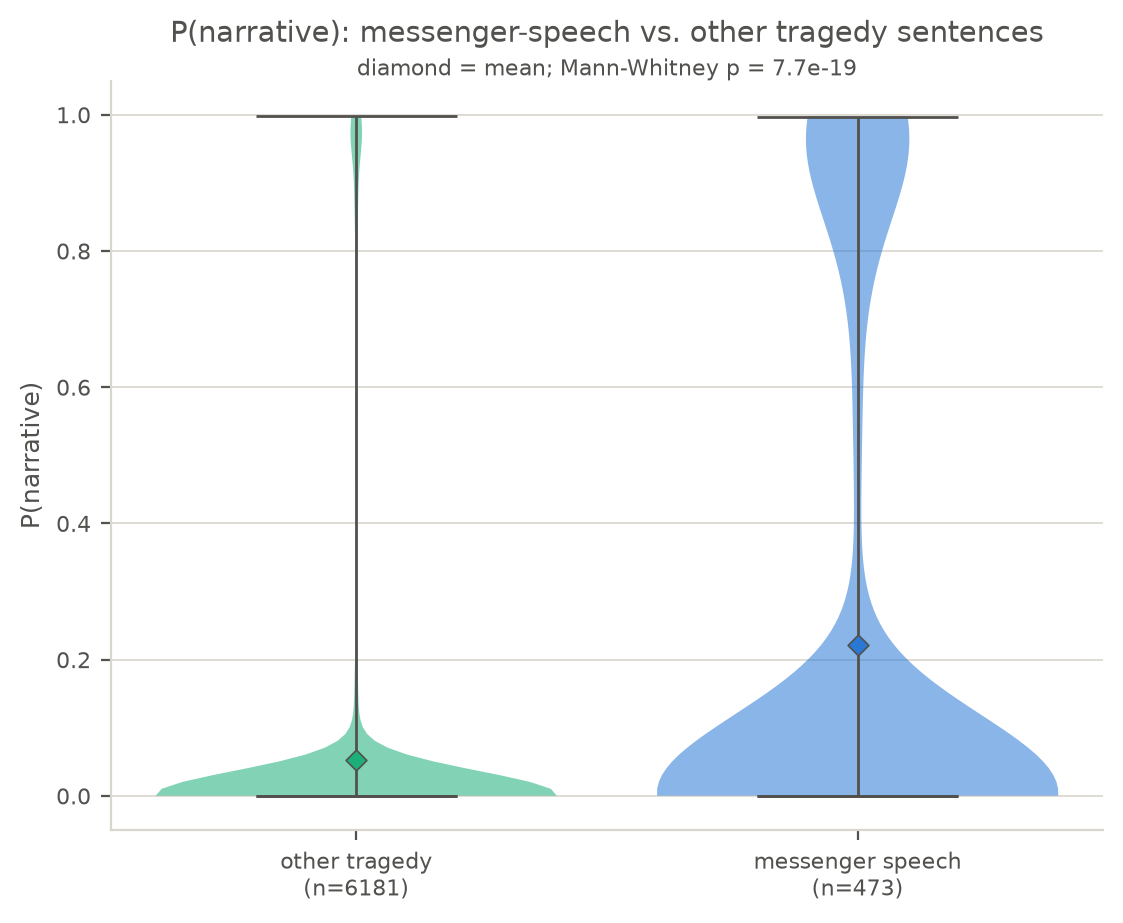
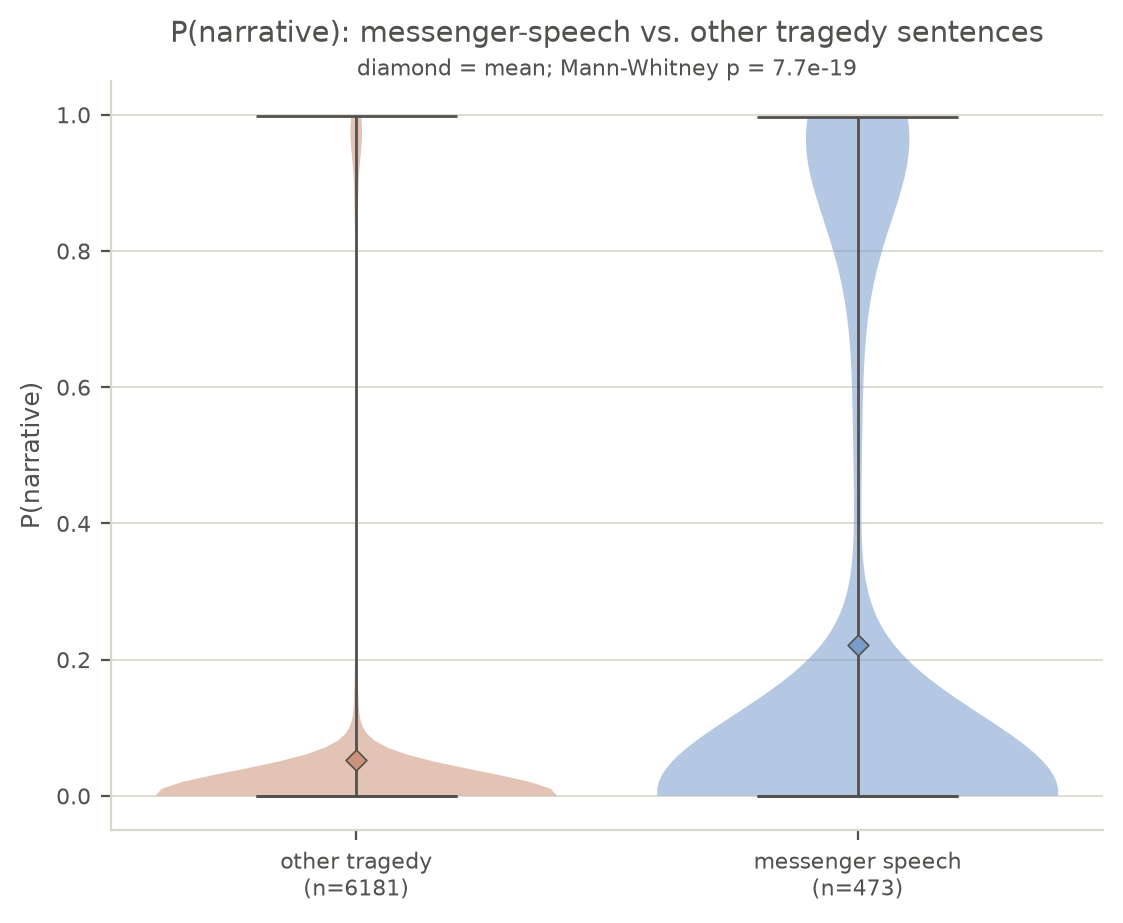
Add individual plots and add stats to README

Changed region(s): [[0.5922, 0.1213, 0.935, 0.8797], [0.1247, 0.7584, 0.4987, 0.8797], [0.3117, 0.1213, 0.3428, 0.182]]

diff --git a/scripts/plot_messenger_narrativity.py b/scripts/plot_messenger_narrativity.py
@@ -29,8 +29,8 @@ RESULTS_CSV = ROOT_DIR / "csv" / "messenger_speech_narrativity.csv"
 FIG_DIR = ROOT_DIR / "figures"
 
 # Validated categorical pair (scripts/validate_palette.js, light mode: PASS).
-COLOR_MESSENGER = "#2a78d6"
-COLOR_OTHER = "#1baf7a"
+COLOR_MESSENGER = "#799ccd"
+COLOR_OTHER = "#cd9279"
 COLOR_GRID = "#d8d6cd"
 COLOR_TEXT = "#52514e"
 
@@ -53,67 +53,18 @@ def style_axis(ax):
     ax.set_axisbelow(True)
 
 
+def slugify(title: str) -> str:
+    return title.lower().replace(" ", "_")
+
+
+ROLLING_WINDOW = 7
+
+
 def plot_line_position(df: pd.DataFrame, plays: list[dict]) -> None:
     titles = {urn_to_stem(p["urn"]): p["title"] for p in plays}
     speech_ranges = {urn_to_stem(p["urn"]): p["speeches"] for p in plays}
 
-    play_order = sorted(df["play"].unique())
-    n = len(play_order)
-    ncols = 2
-    nrows = -(-n // ncols)
-
-    fig, axes = plt.subplots(
-        nrows, ncols, figsize=(11, 2.6 * nrows), sharey=True, constrained_layout=True
-    )
-    axes = axes.flatten()
-
-    ROLLING_WINDOW = 7
-
-    for ax, play in zip(axes, play_order):
-        play_df = df[df["play"] == play].sort_values("line")
-        for start, end in speech_ranges[play]:
-            ax.axvspan(start, end, color=COLOR_MESSENGER, alpha=0.15, linewidth=0)
-
-        # Individual sentences are too discontinuous to connect with a
-        # line (adjacent clauses can jump from 0 to 1 with no real relation);
-        # a rolling mean shows the local
-        # trend, which is what actually reveals a span "lighting up".
-        ax.scatter(
-            play_df["line"],
-            play_df["p_narrative"],
-            s=5,
-            c=[
-                COLOR_MESSENGER if m else COLOR_OTHER
-                for m in play_df["is_messenger_speech"]
-            ],
-            linewidths=0,
-            alpha=0.35,
-            zorder=2,
-        )
-        rolling = (
-            play_df["p_narrative"]
-            .rolling(ROLLING_WINDOW, center=True, min_periods=1)
-            .mean()
-        )
-        ax.plot(
-            play_df["line"],
-            rolling,
-            color=COLOR_TEXT,
-            linewidth=1.3,
-            zorder=3,
-        )
-
-        ax.set_title(titles.get(play, play), fontsize=9, color=COLOR_TEXT, loc="left")
-        ax.set_ylim(-0.05, 1.05)
-        style_axis(ax)
-
-    for ax in axes[n:]:
-        ax.set_visible(False)
-
-    for ax in axes[::ncols]:
-        ax.set_ylabel("P(narrative)", fontsize=8, color=COLOR_TEXT)
-    for ax in axes[max(0, n - ncols) : n]:
-        ax.set_xlabel("line number", fontsize=8, color=COLOR_TEXT)
+    FIG_DIR.mkdir(exist_ok=True, parents=True)
 
     handles = [
         plt.Line2D(
@@ -135,24 +86,64 @@ def plot_line_position(df: pd.DataFrame, plays: list[dict]) -> None:
             label=f"{ROLLING_WINDOW}-sentence rolling mean",
         ),
     ]
-    fig.legend(
-        handles=handles,
-        loc="lower center",
-        ncol=3,
-        frameon=False,
-        fontsize=8,
-        bbox_to_anchor=(0.5, -0.02),
-    )
-    fig.suptitle(
-        "P(narrative) by line position, with known messenger-speech ranges shaded",
-        fontsize=11,
-        color=COLOR_TEXT,
-    )
 
-    FIG_DIR.mkdir(exist_ok=True, parents=True)
-    out_path = FIG_DIR / "line_position.png"
-    fig.savefig(out_path, dpi=200, bbox_inches="tight")
-    print(f"Wrote {out_path}")
+    for play in sorted(df["play"].unique()):
+        play_df = df[df["play"] == play].sort_values("line")
+        title = titles.get(play, play)
+
+        fig, ax = plt.subplots(figsize=(9, 3.2), constrained_layout=True)
+
+        for start, end in speech_ranges[play]:
+            ax.axvspan(start, end, color=COLOR_MESSENGER, alpha=0.15, linewidth=0)
+
+        # Individual sentences are too discontinuous to connect with a
+        # line (adjacent clauses can jump from 0 to 1 with no real relation);
+        # a rolling mean shows the local trend, which is what actually
+        # reveals a span "lighting up".
+        ax.scatter(
+            play_df["line"],
+            play_df["p_narrative"],
+            s=8,
+            c=[
+                COLOR_MESSENGER if m else COLOR_OTHER
+                for m in play_df["is_messenger_speech"]
+            ],
+            linewidths=0,
+            alpha=0.4,
+            zorder=2,
+        )
+        rolling = (
+            play_df["p_narrative"]
+            .rolling(ROLLING_WINDOW, center=True, min_periods=1)
+            .mean()
+        )
+        ax.plot(
+            play_df["line"],
+            rolling,
+            color=COLOR_TEXT,
+            linewidth=1.3,
+            zorder=3,
+        )
+
+        ax.set_title(title, fontsize=11, color=COLOR_TEXT, loc="left")
+        ax.set_ylim(-0.05, 1.05)
+        ax.set_ylabel("P(narrative)", fontsize=9, color=COLOR_TEXT)
+        ax.set_xlabel("line number", fontsize=9, color=COLOR_TEXT)
+        style_axis(ax)
+
+        ax.legend(
+            handles=handles,
+            loc="upper center",
+            ncol=1,
+            frameon=False,
+            fontsize=7,
+            bbox_to_anchor=(1.18, 1.0),
+        )
+
+        out_path = FIG_DIR / f"line_position_{slugify(title)}.png"
+        fig.savefig(out_path, dpi=200, bbox_inches="tight")
+        plt.close(fig)
+        print(f"Wrote {out_path}")
 
 
 def plot_distribution(df: pd.DataFrame) -> None:

diff --git a/README.md b/README.md
@@ -1,0 +1,36 @@
+# Measuring narrativity in tragedy using a model trained on epic
+
+```
+Messenger-speech sentences: 473; other tragedy sentences: 6181
+P(narrative) mean: messenger=0.2213, other=0.0521
+Narrative classification rate: messenger=0.2326, other=0.0514
+
+Mann-Whitney U (H1: messenger P(narrative) > other): U=1815603.5, p=7.723e-19
+Fisher's exact (H1: messenger narrative rate > other): odds_ratio=5.5870, p=4.782e-36
+
+Per-play P(narrative) mean, messenger vs. other:
+is_messenger_speech     other  messenger
+play
+tlg0006.tlg013       0.080036   0.145780
+tlg0011.tlg001       0.052703   0.190959
+tlg0011.tlg002       0.051836   0.181455
+tlg0011.tlg003       0.039887   0.217637
+tlg0011.tlg004       0.035832   0.238802
+tlg0011.tlg005       0.024987   0.630883
+tlg0011.tlg006       0.021881   0.264801
+tlg0085.tlg005       0.120057   0.143941
+
+Per-play (messenger - other) P(narrative) difference:
+play
+tlg0006.tlg013    0.065745
+tlg0011.tlg001    0.138256
+tlg0011.tlg002    0.129619
+tlg0011.tlg003    0.177751
+tlg0011.tlg004    0.202971
+tlg0011.tlg005    0.605896
+tlg0011.tlg006    0.242920
+tlg0085.tlg005    0.023883
+dtype: float64
+
+Wilcoxon signed-rank across 8 plays (H1: messenger - other > 0): W=36.0, p=0.003906
+```